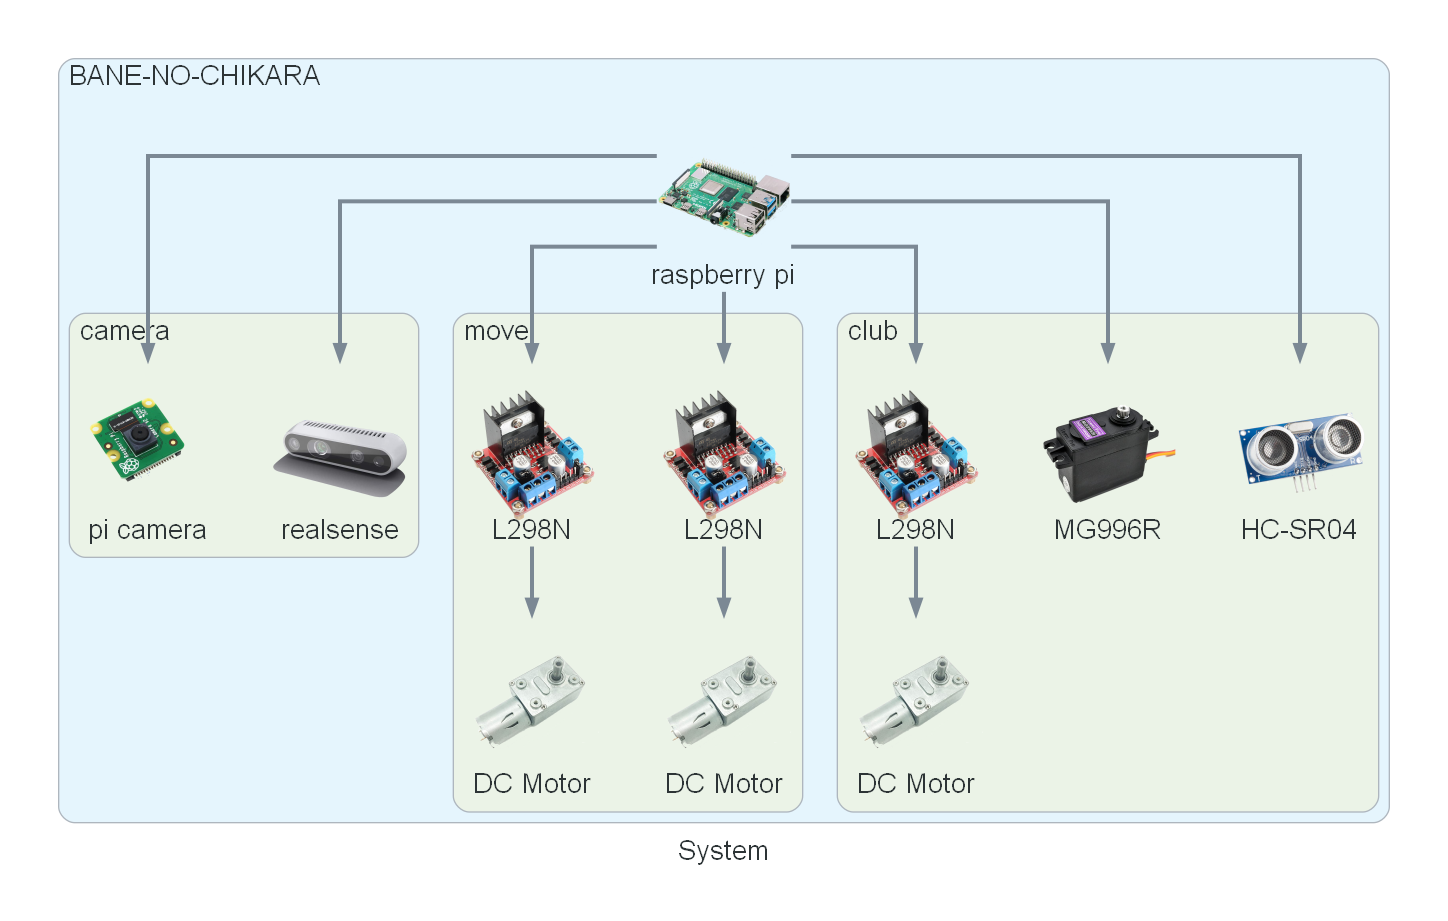
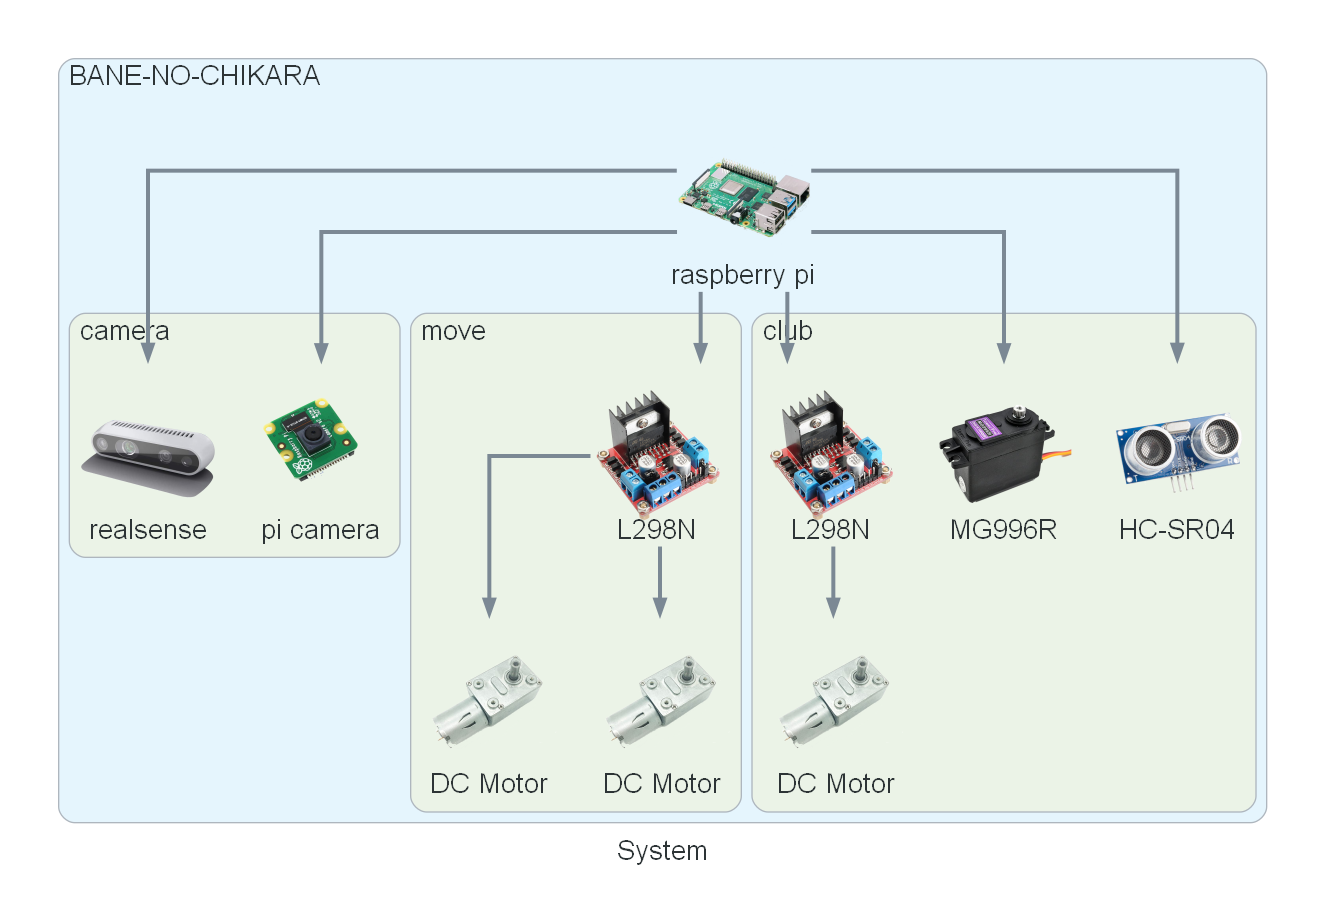
配置変更

diff --git a/diagrams/system.py b/diagrams/system.py
@@ -4,10 +4,13 @@ from diagrams import Cluster, Diagram
 from my_icon import my_icon
 
 graph_attr = {
-    # 'bgcolor': 'gray',
     "pad": "0.5",
+    "splines": "ortho",
+    "nodesep": "0.4",
+    "ranksep": "0.75",
     "fontname": "Arial",
-    'fontsize': '20'
+    "fontsize": "20",
+    "fontcolor": "#2D3436",
 }
 
 node_attr = {
@@ -29,25 +32,24 @@ with Diagram('System', direction="TB", graph_attr=graph_attr, edge_attr=edge_att
         ras_pi = my_icon("raspberry pi", "icon/raspberry_pi.png")
 
         with Cluster("camera", graph_attr=graph_attr):
-            realsense = my_icon("realsense", "icon/D435i.png")
             picamera = my_icon("pi camera", "icon/picamera.png")
+            realsense = my_icon("realsense", "icon/D435i.png")
 
         with Cluster("move", graph_attr=graph_attr):
             driver_1 = my_icon("L298N", "icon/L298N.png")
-            driver_2 = my_icon("L298N", "icon/L298N.png")
             DC_motor_1 = my_icon("DC Motor", "icon/JGY-370.png")
             DC_motor_2 = my_icon("DC Motor", "icon/JGY-370.png")
 
         with Cluster("club", graph_attr=graph_attr):
             Echo = my_icon("HC-SR04", "icon/HC-SR04.png")
             servo = my_icon("MG996R", "icon/MG996R.png")
-            driver_3 = my_icon("L298N", "icon/L298N.png")
+            driver_2 = my_icon("L298N", "icon/L298N.png")
             DC_motor_3 = my_icon("DC Motor", "icon/JGY-370.png")
         
     ras_pi >> realsense
     ras_pi >> picamera
     ras_pi >> driver_1 >> DC_motor_1
-    ras_pi >> driver_2 >> DC_motor_2
-    ras_pi >> driver_3 >> DC_motor_3
+    driver_1 >> DC_motor_2
+    ras_pi >> driver_2 >> DC_motor_3
     ras_pi >> Echo
     ras_pi >> servo
